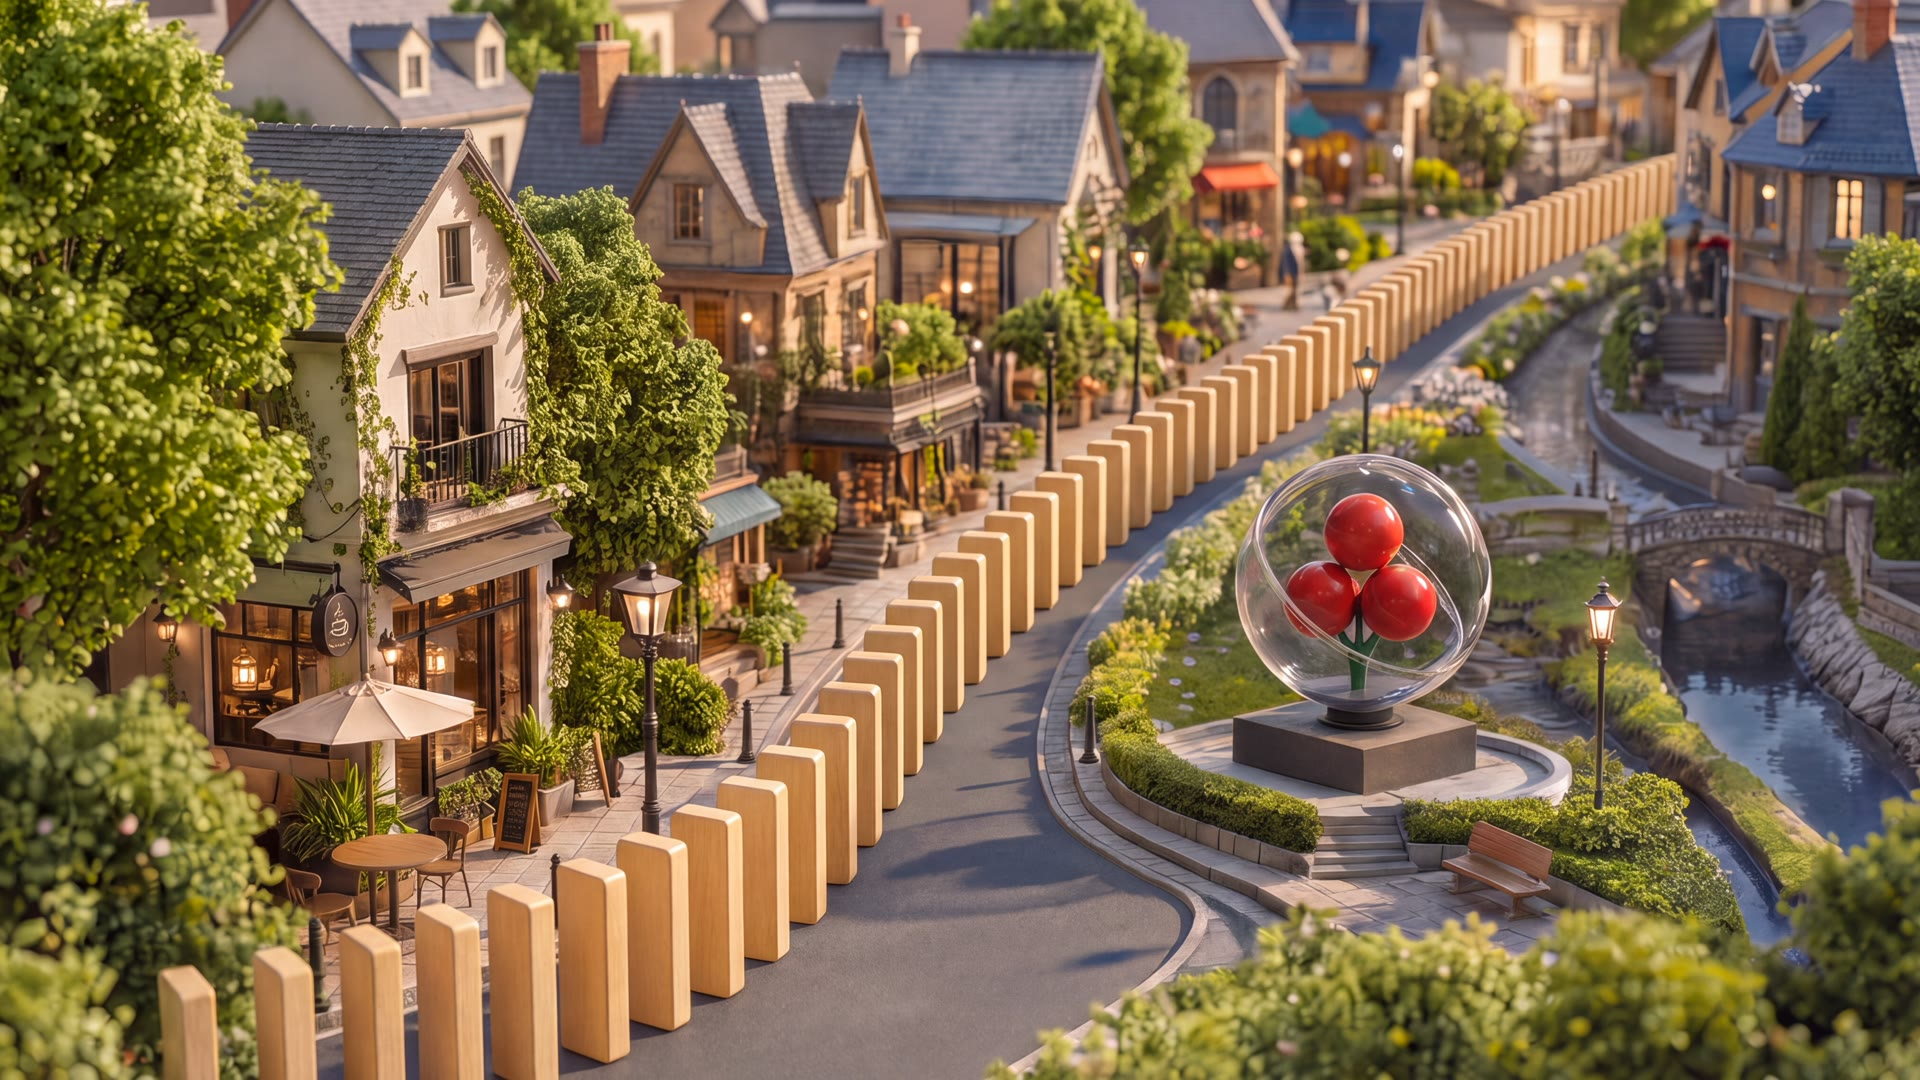
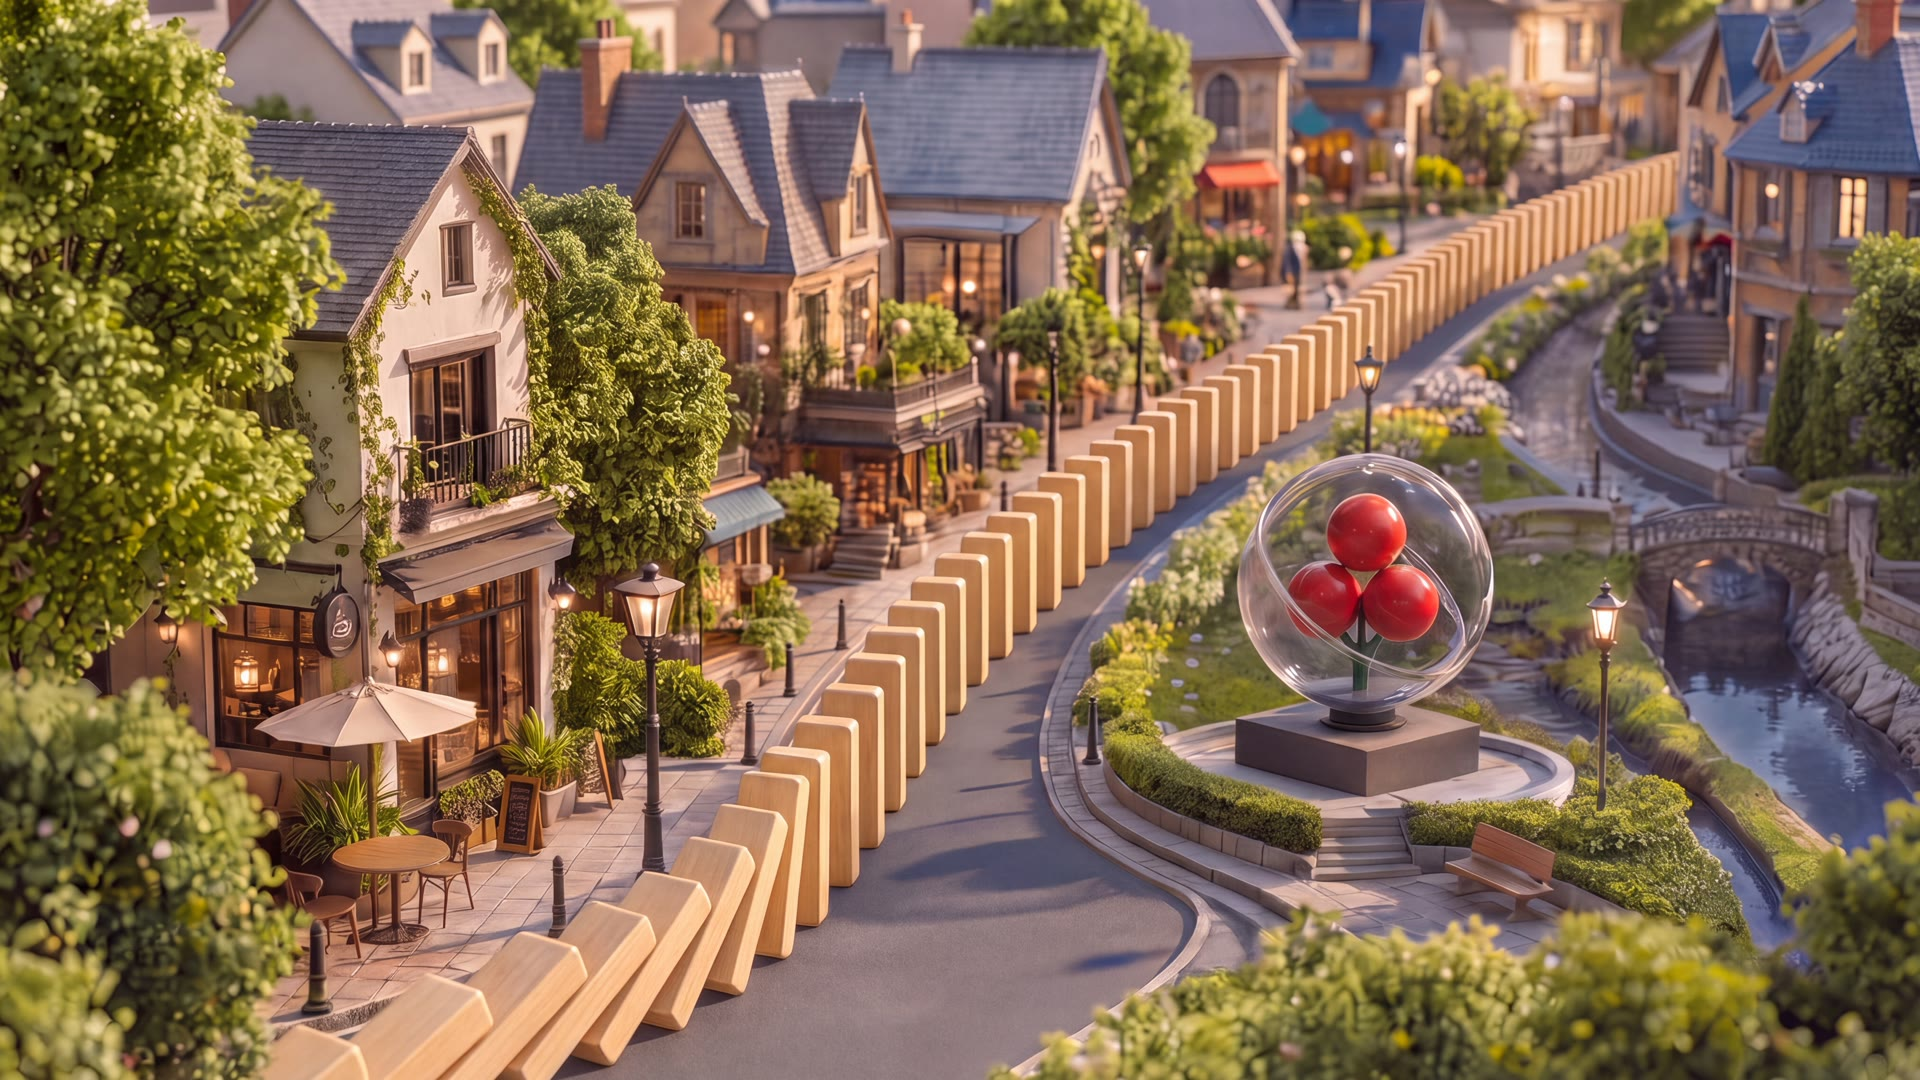
CUT 07 그림을 iv7_8 로 바꾼다
마을길 구도는 그대로 두되, 앞쪽이 이미 쓰러진 판으로 바꾼다.
이로써 03~07 이 모두 쓰러지는 중이고, 전부 서 있는 컷은 08 만 남는다.

diff --git a/assets/led/README.md b/assets/led/README.md
@@ -43,7 +43,7 @@
 | 04 | `cut04.jpg` | `iv4_15` | 줄이 모퉁이 건물을 감아 돌며 쓰러진다 |
 | 05 | `cut05.jpg` | `iv5_18` | 유리돔 열매 조형을 지나며 쓰러진다 |
 | 06 | `cut06.jpg` | `iv6_14` | 전광판 아래 골목을 도미노가 쓰러지며 지난다 |
-| 07 | `cut07.jpg` | `iv7_7` | 개천 옆 마을길을 따라 줄이 열매 조형을 지나간다 |
+| 07 | `cut07.jpg` | `iv7_8` | 개천 옆 마을길 — 앞쪽은 이미 쓰러졌고 안쪽이 아직 서 있다 |
 | 08 | `cut08.jpg` | `iv8_18` | 유리돔 열매 조형을 눈높이로 — **랜드마크 컷** |
 | 09 | `cut09.jpg` | `iv9_51` | **임시.** 광장 중앙 타워에 줄이 닿는다 |
 | 10 | — | — | **비었다.** 빛이 터진다 |
